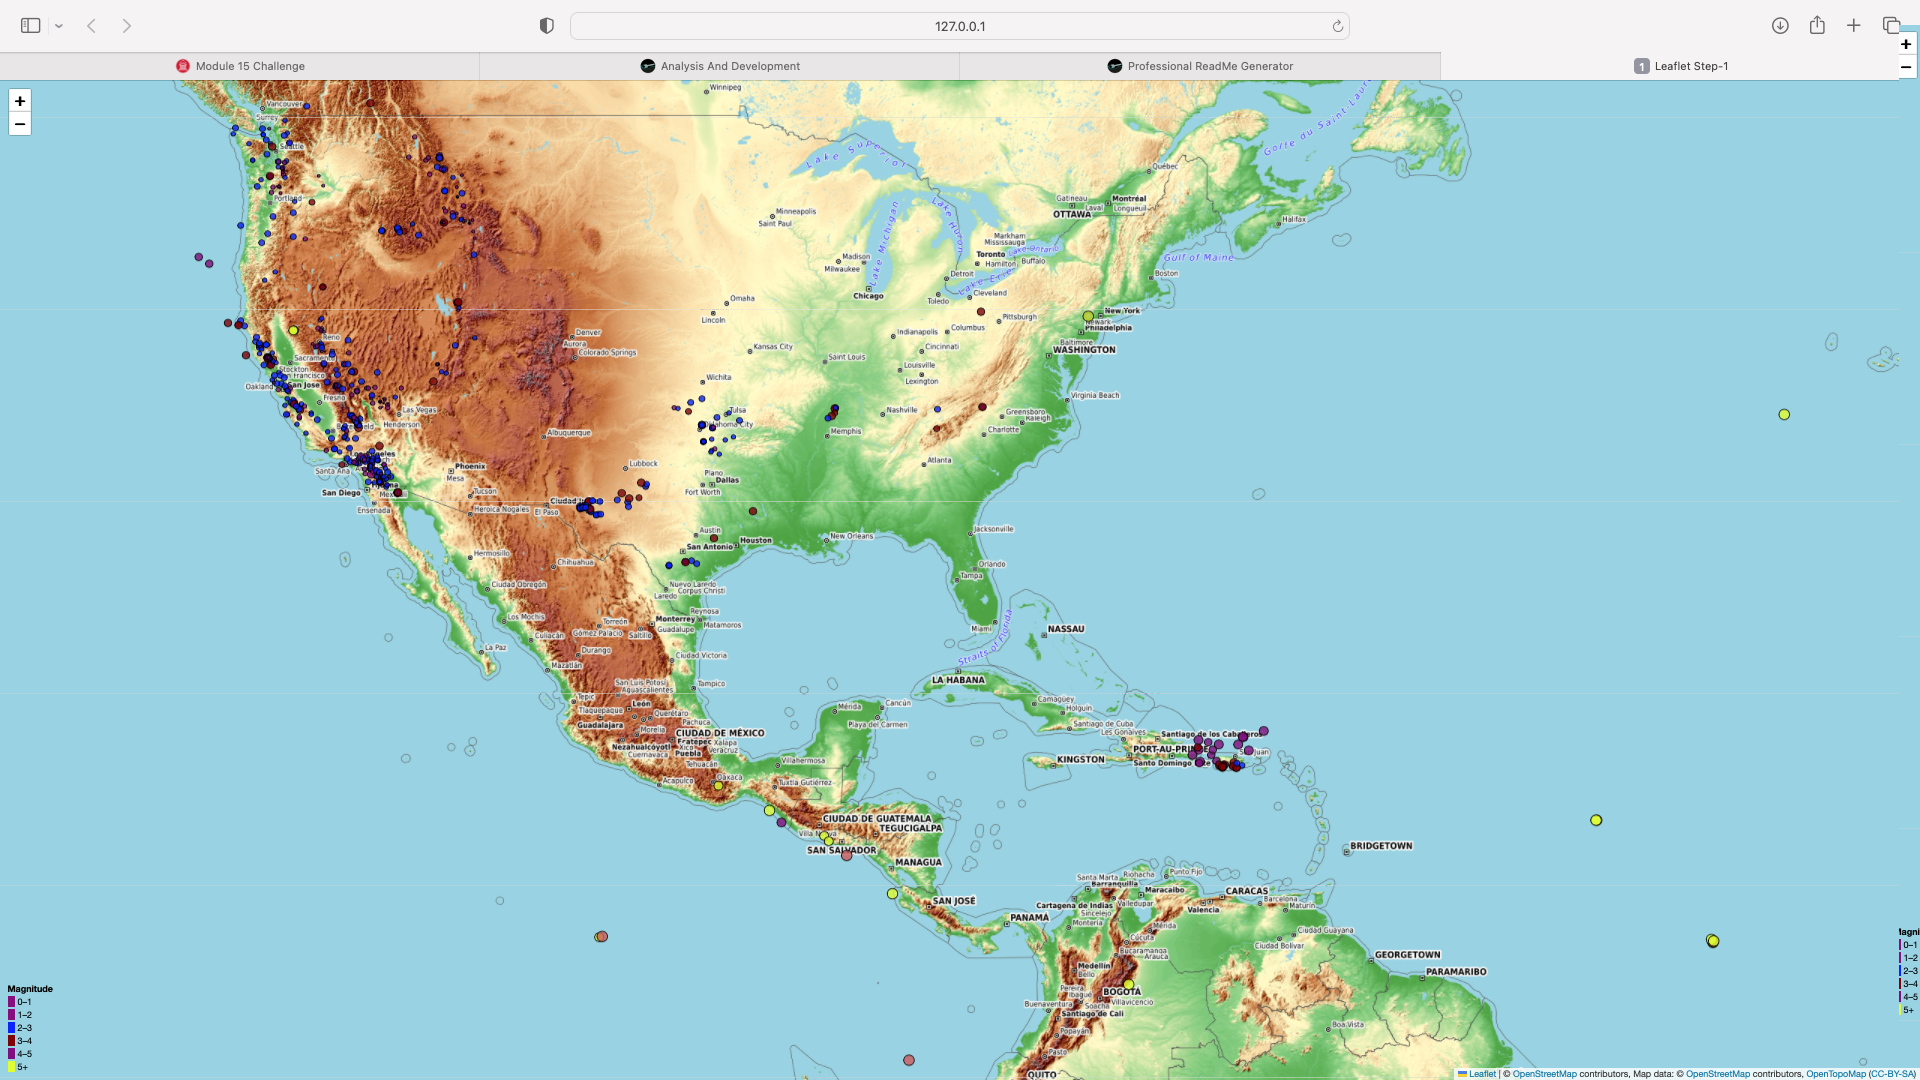
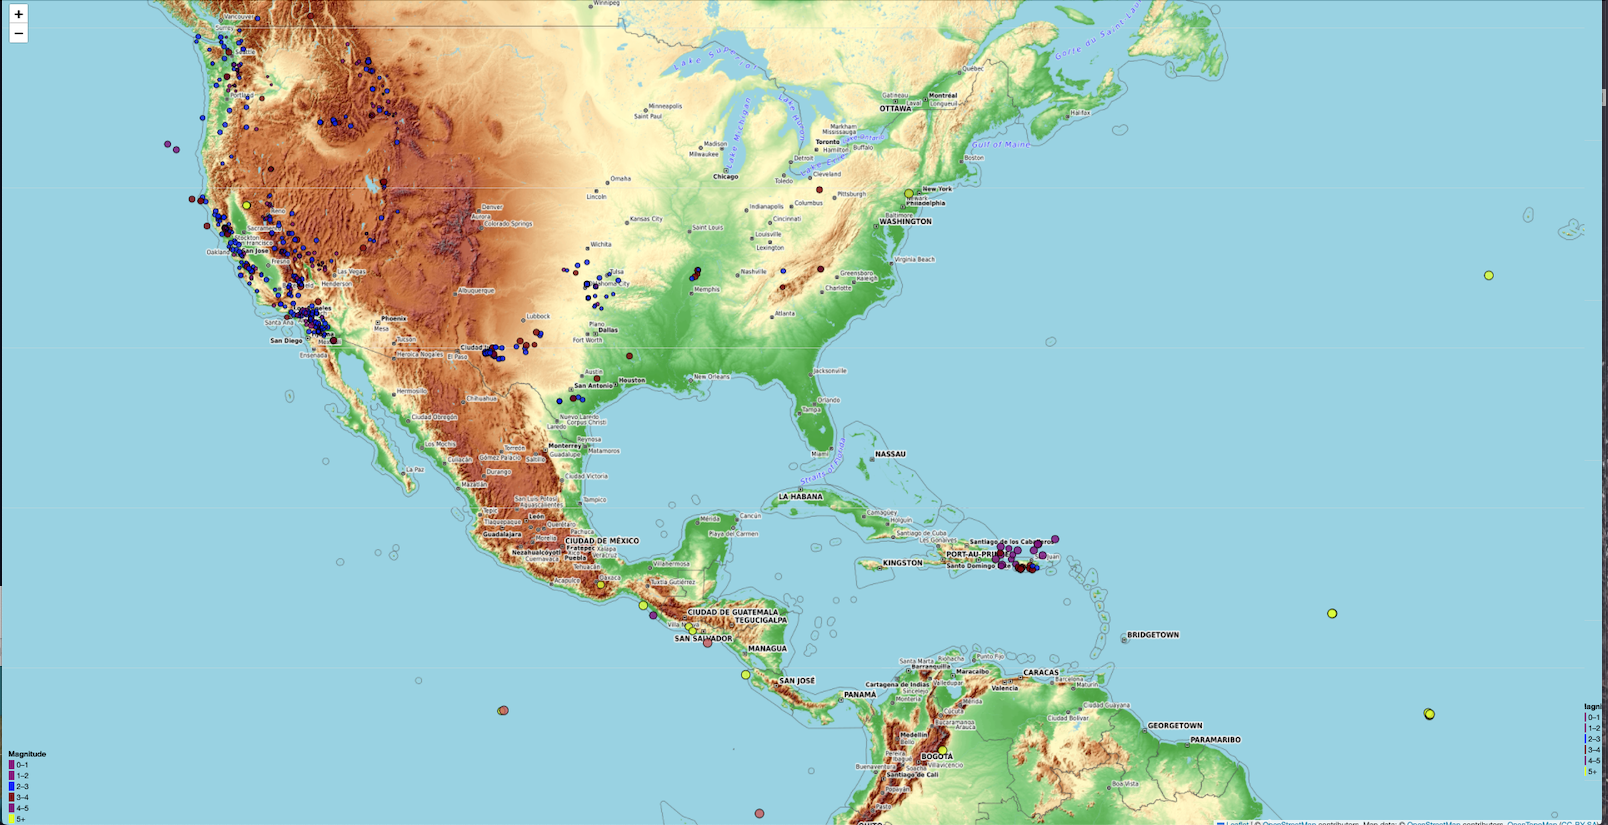
update

diff --git a/static/js/logic.js b/static/js/logic.js
@@ -16,6 +16,40 @@ let topo = L.tileLayer('https://{s}.tile.opentopomap.org/{z}/{x}/{y}.png', {
 
 // Load the GeoJSON earthquake data.
 let geoData = "https://earthquake.usgs.gov/earthquakes/feed/v1.0/summary/all_week.geojson";
+// Define base layers
+let baseLayers = {
+  "OpenStreetMap": L.tileLayer('https://{s}.tile.openstreetmap.org/{z}/{x}/{y}.png', {
+      attribution: '&copy; <a href="https://www.openstreetmap.org/copyright">OpenStreetMap</a> contributors'
+  }),
+  "OpenTopoMap": L.tileLayer('https://{s}.tile.opentopomap.org/{z}/{x}/{y}.png', {
+      attribution: 'Map data: &copy; <a href="https://www.openstreetmap.org/copyright">OpenStreetMap</a> contributors, <a href="https://opentopomap.org">OpenTopoMap</a> (<a href="https://creativecommons.org/licenses/by-sa/3.0/">CC-BY-SA</a>)'
+  }),
+  "Satellite": L.tileLayer('https://server.arcgisonline.com/ArcGIS/rest/services/World_Imagery/MapServer/tile/{z}/{y}/{x}', {
+      attribution: 'Tiles &copy; Esri &mdash; Source: Esri, i-cubed, USDA, USGS, AEX, GeoEye, Getmapping, Aerogrid, IGN, IGP, UPR-EGP, and the GIS User Community'
+  })
+};
+
+// Create a layer group for overlays
+let overlays = {
+  "Tectonic Plates": L.geoJSON(),
+  "Earthquakes": L.geoJSON()
+};
+
+// Add tectonic plate boundaries data to the overlays
+$.getJSON(plateBoundariesURL, function(plateBoundaries) {
+  overlays["Tectonic Plates"].addData(plateBoundaries);
+});
+
+// Load the GeoJSON earthquake data and add it to the overlays
+d3.json(geoData).then(function(data) {
+  overlays["Earthquakes"].addData(data);
+});
+
+// Add a control layer
+L.control.layers(baseLayers, overlays).addTo(myMap);
+
+// Set the default base layer
+baseLayers["OpenStreetMap"].addTo(myMap);
 
 // Get the data with d3.
 d3.json(geoData).then(function(data) {
@@ -65,3 +99,50 @@ legend.onAdd = function() {
 
 legend.addTo(myMap);
 
+ // Retrieve tectonic plate boundaries data
+var plateBoundariesURL = "https://raw.githubusercontent.com/fraxen/tectonicplates/master/GeoJSON/PB2002_boundaries.json";
+$.getJSON(plateBoundariesURL, function(plateBoundaries) {
+    // Add tectonic plate boundaries to the map
+    L.geoJSON(plateBoundaries, {
+        style: function(feature) {
+            return {
+                color: "orange",
+                weight: 2
+            };
+        }
+    }).addTo(myMap); // Corrected the map object reference to myMap
+});
+// Define base layers
+let Layers = {
+  "OpenStreetMap": L.tileLayer('https://{s}.tile.openstreetmap.org/{z}/{x}/{y}.png', {
+      attribution: '&copy; <a href="https://www.openstreetmap.org/copyright">OpenStreetMap</a> contributors'
+  }),
+  "OpenTopoMap": L.tileLayer('https://{s}.tile.opentopomap.org/{z}/{x}/{y}.png', {
+      attribution: 'Map data: &copy; <a href="https://www.openstreetmap.org/copyright">OpenStreetMap</a> contributors, <a href="https://opentopomap.org">OpenTopoMap</a> (<a href="https://creativecommons.org/licenses/by-sa/3.0/">CC-BY-SA</a>)'
+  }),
+  "Satellite": L.tileLayer('https://server.arcgisonline.com/ArcGIS/rest/services/World_Imagery/MapServer/tile/{z}/{y}/{x}', {
+      attribution: 'Tiles &copy; Esri &mdash; Source: Esri, i-cubed, USDA, USGS, AEX, GeoEye, Getmapping, Aerogrid, IGN, IGP, UPR-EGP, and the GIS User Community'
+  })
+};
+
+// Create a layer group for overlays
+let overlay = {
+  "Tectonic Plates": L.geoJSON(),
+  "Earthquakes": L.geoJSON()
+};
+
+// Add tectonic plate boundaries data to the overlays
+$.getJSON(plateBoundariesURL, function(plateBoundaries) {
+  overlays["Tectonic Plates"].addData(plateBoundaries);
+});
+
+// Load the GeoJSON earthquake data and add it to the overlays
+d3.json(geoData).then(function(data) {
+  overlays["Earthquakes"].addData(data);
+});
+
+// Add a control layer
+L.control.layers(baseLayers, overlays).addTo(myMap);
+
+// Set the default base layer
+baseLayers["OpenStreetMap"].addTo(myMap);

diff --git a/static/js/index.html b/static/js/index.html
@@ -19,16 +19,18 @@
 <body>
 
   <!-- The div that holds our map -->
-  <div id="map"></div>
+  <div id="map" style="height: 600px;"></div>
 
   <!-- Leaflet JS -->
   <script src="https://unpkg.com/leaflet@1.9.4/dist/leaflet.js"
     integrity="sha256-20nQCchB9co0qIjJZRGuk2/Z9VM+kNiyxNV1lvTlZBo="
     crossorigin=""></script>
+    <script src="https://code.jquery.com/jquery-3.6.0.min.js"></script>
   <!-- D3 JavaScript -->
   <script src="https://d3js.org/d3.v7.min.js"></script>
   <!-- Our JavaScript -->
   <script type="text/javascript" src="static/js/logic.js"></script>
+<script src="logic.js"></script>
 </body>
 
 </html>
